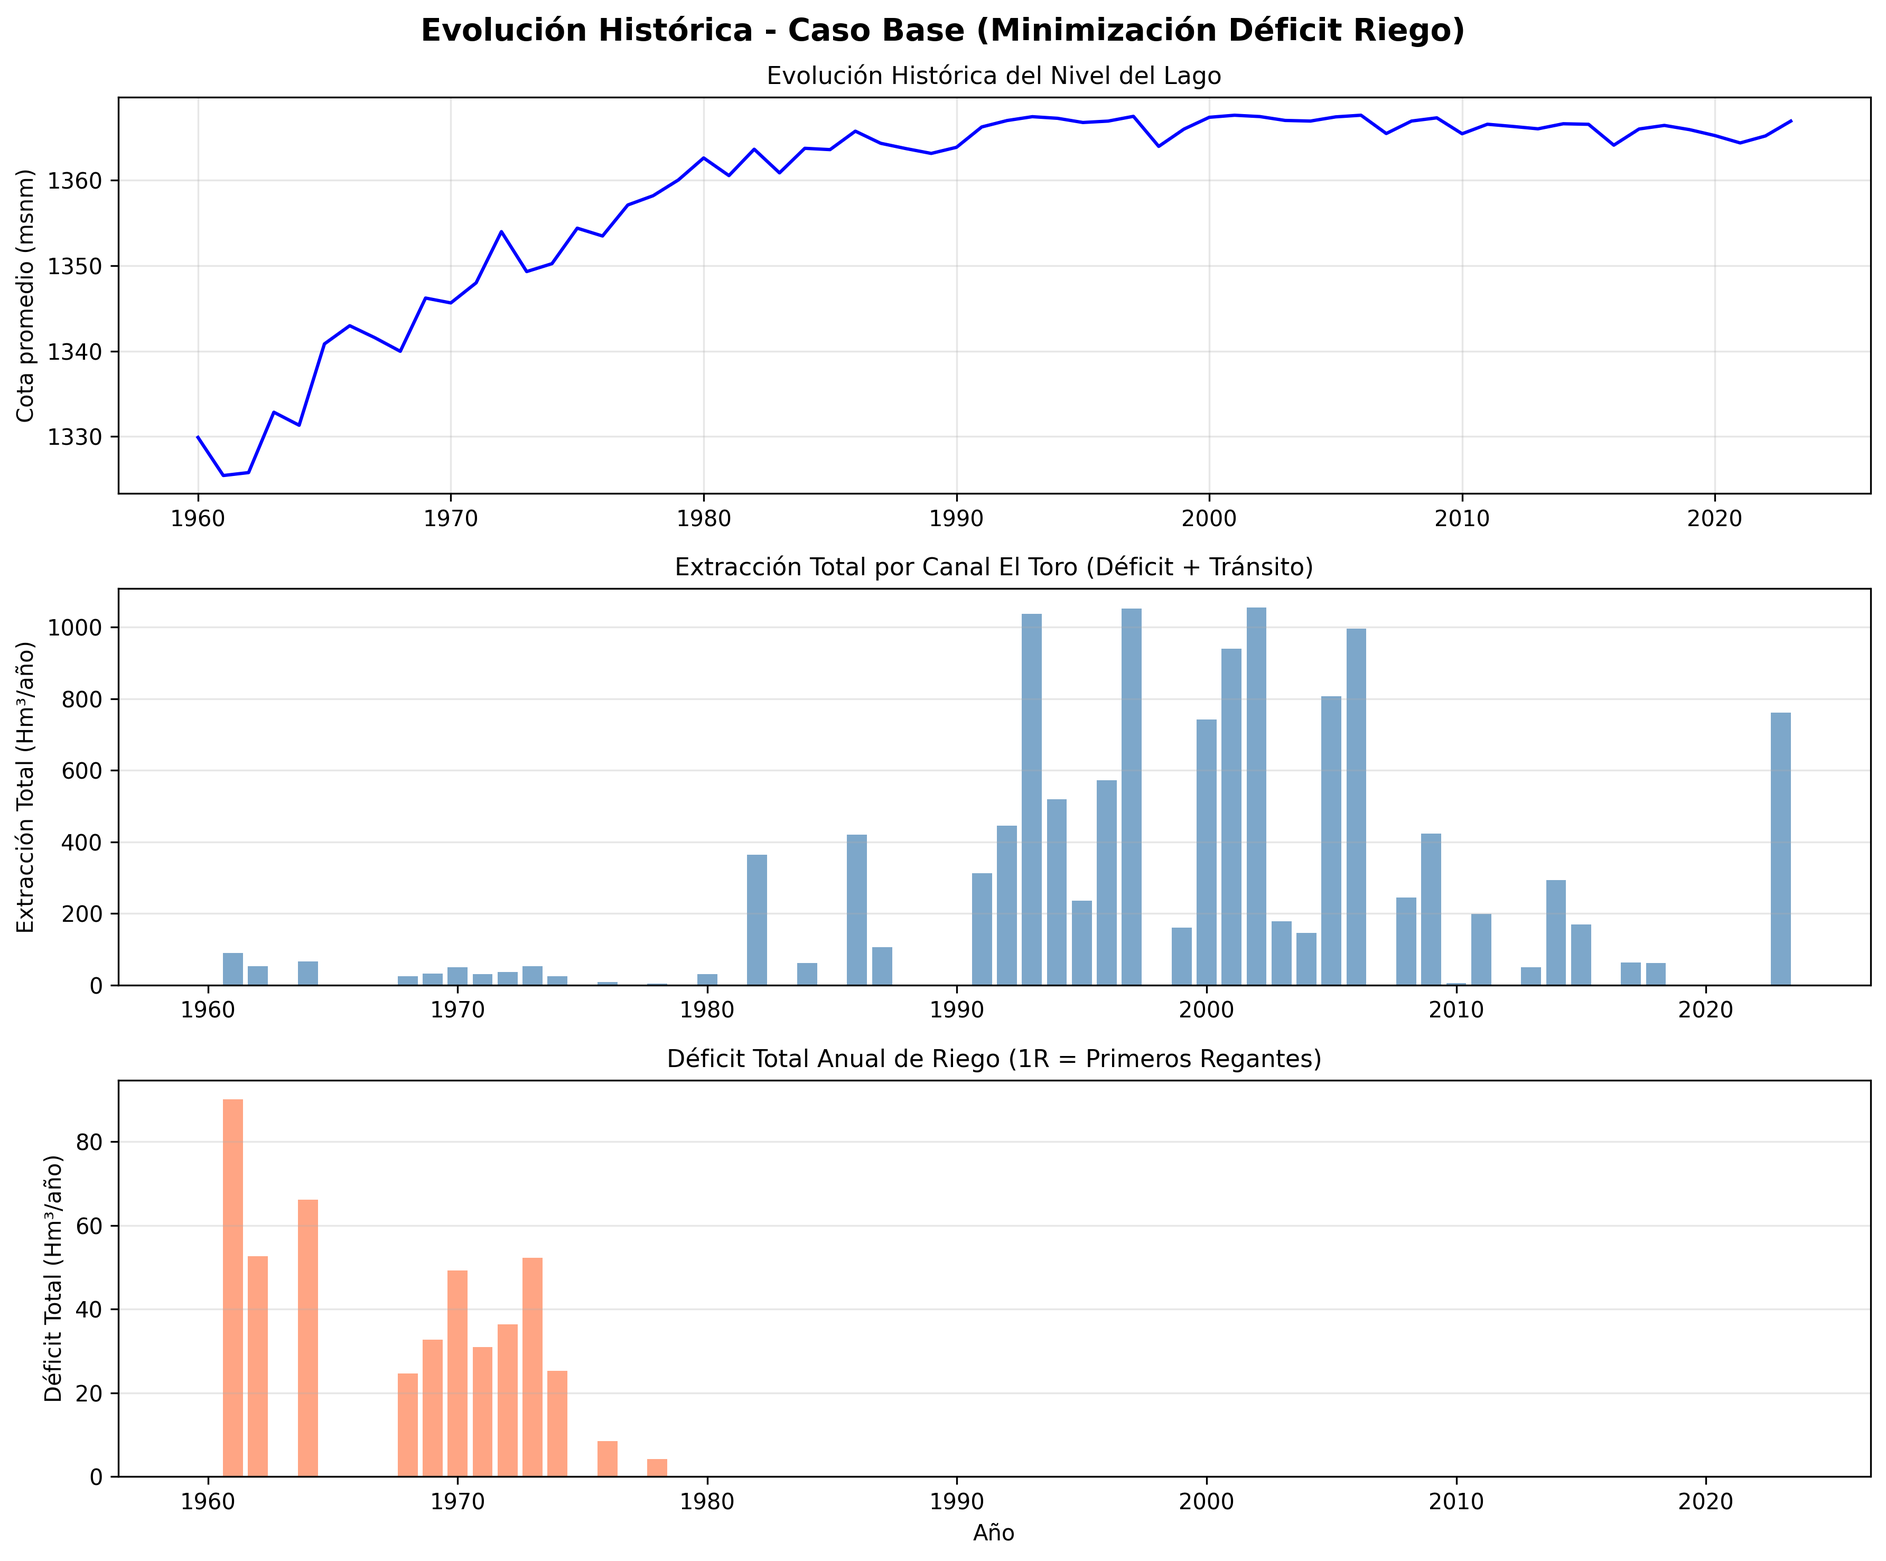
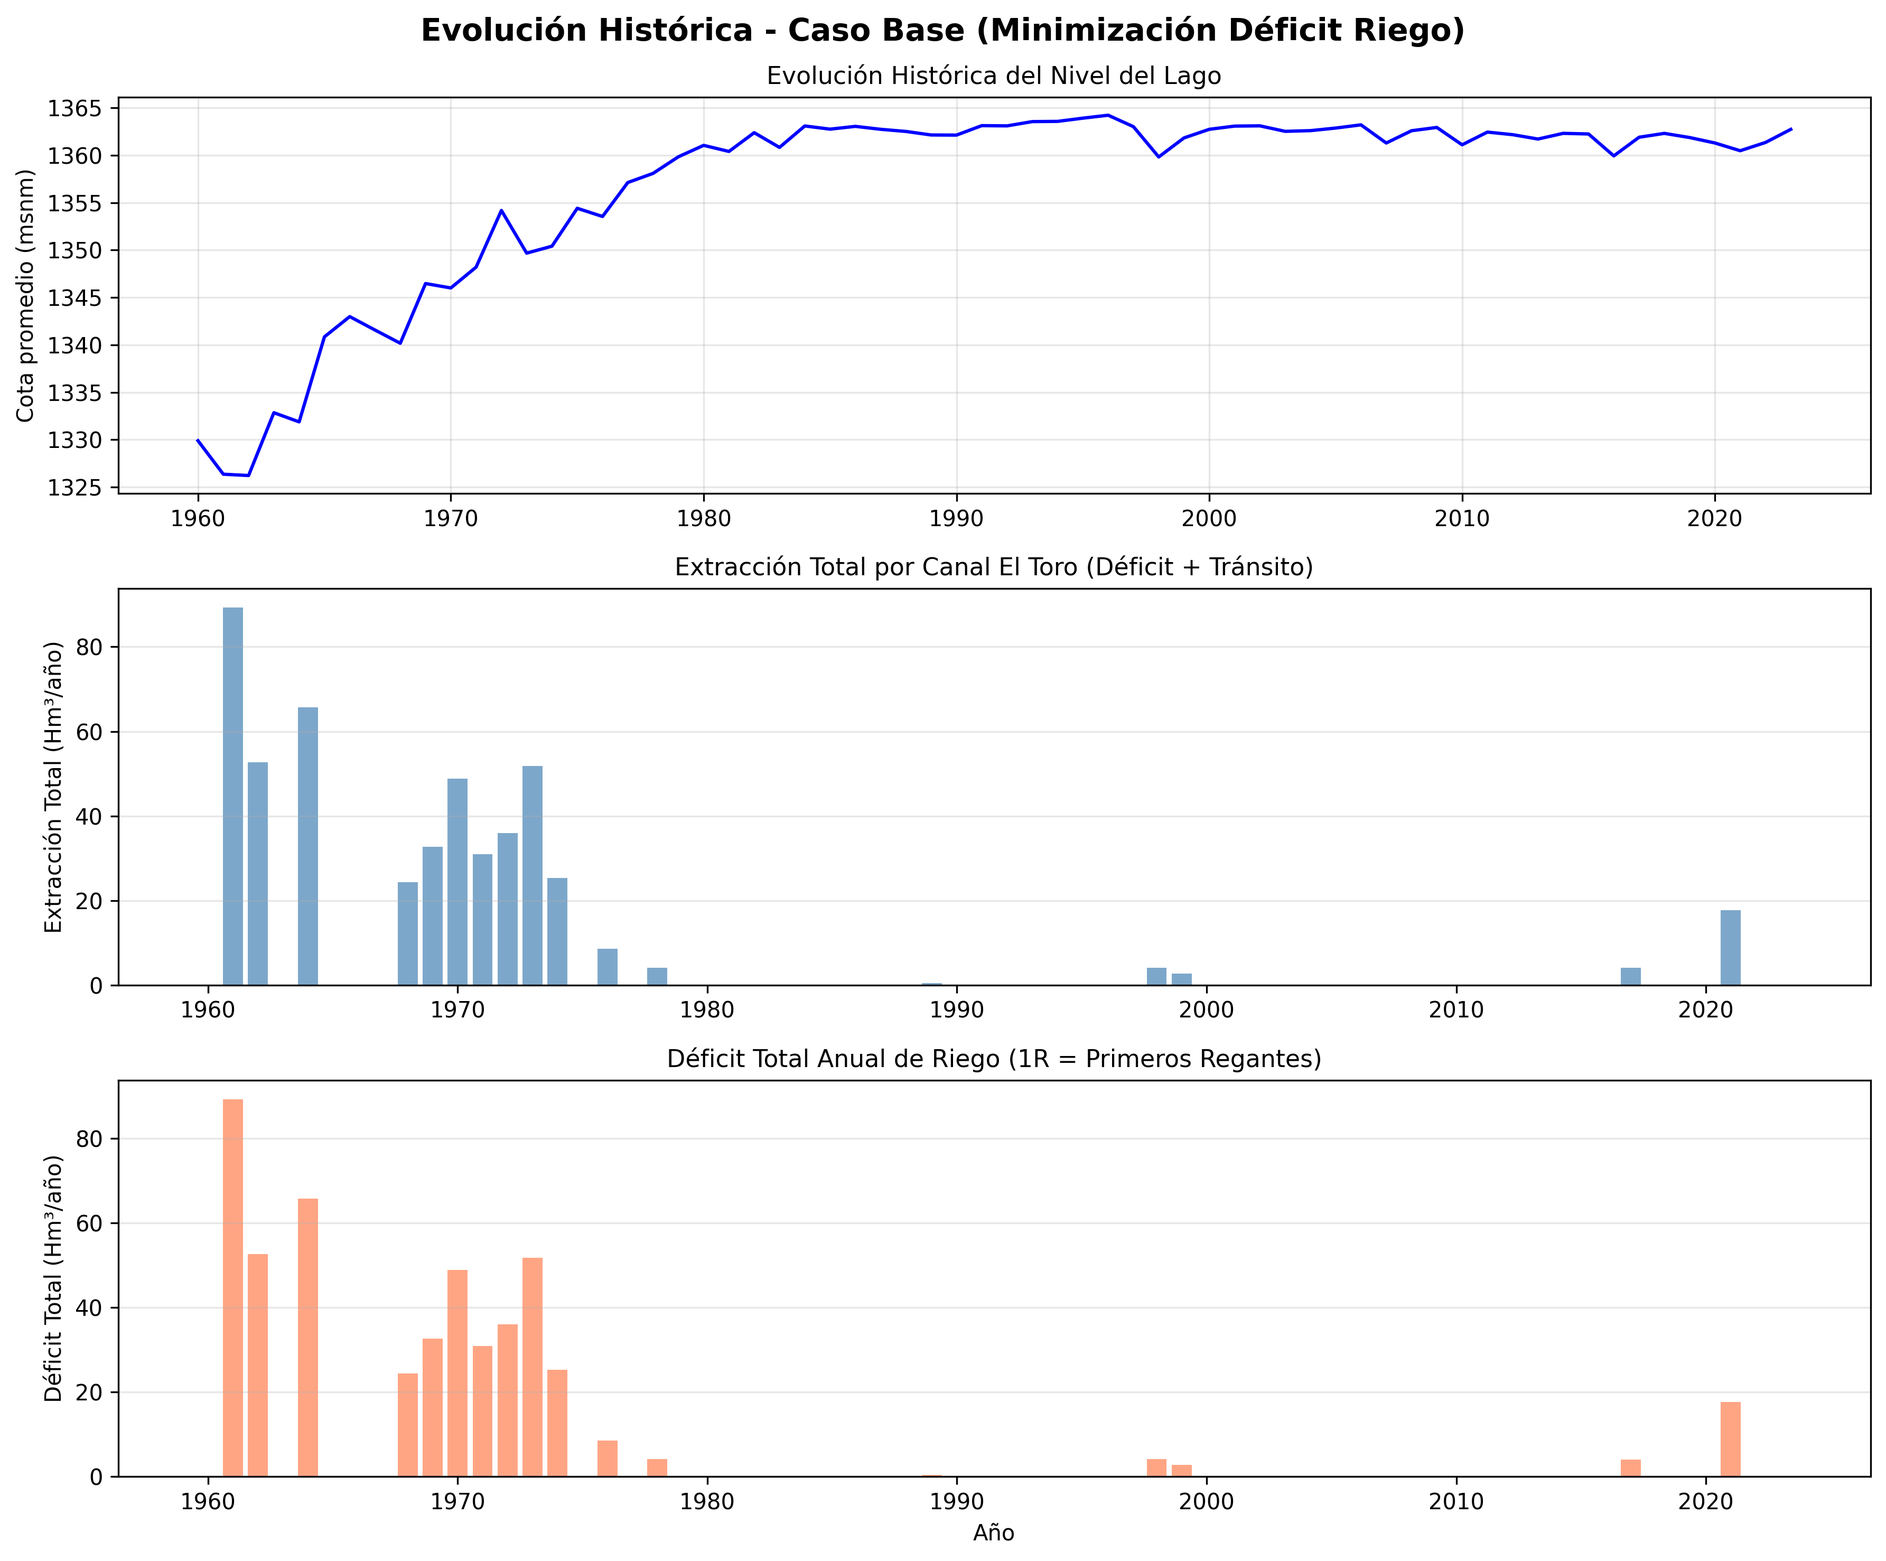
actualizando modelo final

diff --git a/src/ui_caso_base.py b/src/ui_caso_base.py
@@ -90,7 +90,9 @@ def print_kpis_caso_base(
     if not kpis or kpis.get('status', -1) != 2:
         print("⚠ No hay KPIs disponibles para mostrar")
         return
-    print_kpis(kpis, context, is_caso_base=True, years=years)
+    # print_kpis signature in kpi.py is (kpis, context='', years=None)
+    # do not pass unsupported keyword 'is_caso_base'
+    print_kpis(kpis, context, years=years)
 
 
 def generate_caso_base_plots(
@@ -700,6 +702,146 @@ def run_all_years(
         kpis_agregados = aggregate_kpis(
             kpis_historicos, years=years_exitosos, v0_values=v0_list
         )
+        # -- FALLBACK: si el modelo 'caso base' no contiene variables de
+        # presupuesto (z[*]) la función en kpi.py devuelve 'N/A' para uso
+        # de presupuestos. Aquí generamos una estimación razonable usando
+        # los colchones definidos en `model.py` y los déficits calculados
+        # para mostrar porcentajes informativos en la UI (riego != N/A).
+        try:
+            from model import COLCHONES
+
+            uso_pres = kpis_agregados.get('uso_presupuestos_%', {})
+            need_fix = (
+                (isinstance(uso_pres.get('riego'), str) and 'N/A' in uso_pres.get('riego'))
+                or (isinstance(uso_pres.get('generacion'), str) and 'N/A' in uso_pres.get('generacion'))
+            )
+
+            if need_fix:
+                # Elegir colchón activo por mayor tiempo en colchones
+                tiempo = kpis_agregados.get('tiempo_colchones_%', {})
+                if tiempo:
+                    colchon_activo = max(tiempo.items(), key=lambda x: x[1])[0]
+                else:
+                    colchon_activo = list(COLCHONES.keys())[0]
+
+                shares = COLCHONES.get(colchon_activo, {}).get('shares', (0.0, 0.0, 0.0))
+                r_share, g_share = shares[0], shares[1]
+
+                # Presupuesto riego total para el horizonte (Hm3).
+                # Debemos sumar el presupuesto por año, ya que estamos en modo
+                # multi-año. Para cada año usamos el V0 correspondiente en
+                # `v0_list` (si share>1 se interpreta como Hm3 fijo).
+                presupuesto_riego_total = 0.0
+                presupuesto_gen_total = 0.0
+                for idx in range(len(v0_list)):
+                    v0_y = v0_list[idx] if idx < len(v0_list) else default_v0
+                    if r_share > 1.0:
+                        presupuesto_riego_total += r_share
+                    else:
+                        presupuesto_riego_total += r_share * v0_y
+
+                    if g_share > 1.0:
+                        presupuesto_gen_total += g_share
+                    else:
+                        presupuesto_gen_total += g_share * v0_y
+
+                # Aplicar tope anual de 1200 Hm3 sólo cuando corresponda
+                if colchon_activo == 'Superior':
+                    # tope anual -> multiplicar por número de años
+                    presupuesto_gen_total = min(presupuesto_gen_total, 1200.0 * len(v0_list))
+
+                # Calculamos el porcentaje por AÑO y luego promediamos
+                # Esto refleja mejor "agua que suelta sea un % del presupuesto
+                # establecido antes" (presupuesto fijado cada año según V0).
+                pct_years = []
+                presupuestos_per_year = []
+                deficits_per_year = []
+                extraccion_eltoro_per_year = []
+
+                n_periods = min(len(kpis_historicos), len(v0_list)) if kpis_historicos and v0_list else 0
+                if n_periods == 0:
+                    # Fallback: usar agregados si no hay detalle por año
+                    def_acum_1r = kpis_agregados.get('deficit_acumulado_hm3', {}).get('1R', 0.0)
+                    avg_presupuesto_riego = presupuesto_riego_total / (len(v0_list) or 1)
+                    pct_riego = (def_acum_1r / (presupuesto_riego_total or 1.0)) * 100.0 if presupuesto_riego_total > 0 else 0.0
+                    pct_gen = 0.0
+                    uso_pres_calc = {
+                        'riego': f"{pct_riego:.1f}%",
+                        'generacion': f"{pct_gen:.1f}%",
+                        'presupuesto_riego_hm3': avg_presupuesto_riego,
+                        'presupuesto_gen_hm3': presupuesto_gen_total / (len(v0_list) or 1),
+                        'colchon_activo': colchon_activo,
+                        'v0_real_hm3': sum(v0_list) / (len(v0_list) or 1),
+                        'riego_usado_hm3': def_acum_1r / (len(v0_list) or 1),
+                        'gen_usada_hm3': 0.0,
+                        'extraccion_total_hm3': kpis_agregados.get('agua_eltoro_deficit_1r', 0.0) or def_acum_1r,
+                        'uso_riego_pct': pct_riego,
+                        'uso_gen_pct': pct_gen,
+                        'diferencia_riego_hm3': (def_acum_1r / (len(v0_list) or 1)) - avg_presupuesto_riego,
+                        'diferencia_gen_hm3': - (presupuesto_gen_total / (len(v0_list) or 1)),
+                        'cumple_riego': (def_acum_1r / (len(v0_list) or 1)) <= avg_presupuesto_riego,
+                        'cumple_gen': True,
+                    }
+                else:
+                    for idx in range(n_periods):
+                        kpi_year = kpis_historicos[idx]
+                        v0_y = v0_list[idx] if idx < len(v0_list) else default_v0
+
+                        def1_y = kpi_year.get('deficit_sum_hm3', {}).get('1R', 0.0)
+                        deficits_per_year.append(def1_y)
+
+                        # presupuesto por año según share
+                        if r_share > 1.0:
+                            pres_r_y = r_share
+                        else:
+                            pres_r_y = r_share * v0_y
+                        presupuestos_per_year.append(pres_r_y)
+
+                        # extraccion El Toro para riego (si se guarda en kpi por año)
+                        agua_eltoro_y = kpi_year.get('agua_eltoro_total', None)
+                        if agua_eltoro_y is None:
+                            agua_eltoro_y = def1_y
+                        extraccion_eltoro_per_year.append(agua_eltoro_y)
+
+                        pct_i = (def1_y / pres_r_y * 100.0) if pres_r_y > 0 else 0.0
+                        pct_years.append(pct_i)
+
+                    # Estadísticas anuales
+                    import numpy as _np
+                    mean_pct = float(_np.mean(pct_years)) if pct_years else 0.0
+                    avg_presupuesto_riego = float(_np.mean(presupuestos_per_year))
+                    avg_presupuesto_gen = float(_np.mean([ (g_share if g_share>1.0 else g_share * (v0_list[i] if i<len(v0_list) else default_v0)) for i in range(n_periods) ]))
+                    avg_deficit_annual = float(_np.mean(deficits_per_year))
+                    avg_agua_eltoro_annual = float(_np.mean(extraccion_eltoro_per_year))
+
+                    pct_riego = mean_pct
+                    pct_gen = 0.0
+
+                    uso_pres_calc = {
+                        'riego': f"{pct_riego:.1f}%",
+                        'generacion': f"{pct_gen:.1f}%",
+                        'presupuesto_riego_hm3': avg_presupuesto_riego,
+                        'presupuesto_gen_hm3': avg_presupuesto_gen,
+                        'colchon_activo': colchon_activo,
+                        'v0_real_hm3': sum(v0_list) / n_periods,
+                        'riego_usado_hm3': avg_deficit_annual,
+                        'gen_usada_hm3': 0.0,
+                        'extraccion_total_hm3': avg_agua_eltoro_annual,
+                        'uso_riego_pct': pct_years,
+                        'uso_gen_pct': pct_gen,
+                        'diferencia_riego_hm3': avg_deficit_annual - avg_presupuesto_riego,
+                        'diferencia_gen_hm3': 0.0 - avg_presupuesto_gen,
+                        'cumple_riego': avg_deficit_annual <= avg_presupuesto_riego,
+                        'cumple_gen': True,
+                        'uso_riego_pct_mean': pct_riego,
+                        'uso_riego_pct_years': pct_years,
+                    }
+
+                # Sobrescribir sólo si era N/A
+                kpis_agregados['uso_presupuestos_%'] = uso_pres_calc
+        except Exception:
+            # No bloquear si algo falla: dejamos los valores como están
+            pass
         context = f"Histórico ({len(kpis_historicos)} casos)"
         years_list = all_years[:len(kpis_historicos)]
         print_kpis_caso_base(kpis_agregados, context, years=years_list)

diff --git a/src/kpi.py b/src/kpi.py
@@ -684,44 +684,44 @@ def print_kpis(
     generacion_str = presup.get('generacion', 'N/A')
     print(f"   ⚡ Generación (excedente):    {generacion_str:>8}")
 
-    # Mostrar presupuestos disponibles y diferencias
-    presup_riego_abs = presup.get('presupuesto_riego_hm3', 0.0)
-    presup_gen_abs = presup.get('presupuesto_gen_hm3', 0.0)
-    diff_riego = presup.get('diferencia_riego_hm3', 0.0)
-    diff_gen = presup.get('diferencia_gen_hm3', 0.0)
-    cumple_riego = presup.get('cumple_riego', True)
-    cumple_gen = presup.get('cumple_gen', True)
-    colchon_activo = presup.get('colchon_activo', 'N/A')
+    # # Mostrar presupuestos disponibles y diferencias
+    # presup_riego_abs = presup.get('presupuesto_riego_hm3', 0.0)
+    # presup_gen_abs = presup.get('presupuesto_gen_hm3', 0.0)
+    # diff_riego = presup.get('diferencia_riego_hm3', 0.0)
+    # diff_gen = presup.get('diferencia_gen_hm3', 0.0)
+    # cumple_riego = presup.get('cumple_riego', True)
+    # cumple_gen = presup.get('cumple_gen', True)
+    # colchon_activo = presup.get('colchon_activo', 'N/A')
 
-    if presup_riego_abs > 0 or presup_gen_abs > 0:
-        print(f"\n   📋 Colchón Activo: {colchon_activo}")
-        print("   💧 Presupuestos vs Uso:")
+    # if presup_riego_abs > 0 or presup_gen_abs > 0:
+    #     print(f"\n   📋 Colchón Activo: {colchon_activo}")
+    #     print("   💧 Presupuestos vs Uso:")
 
-        if presup_riego_abs > 0:
-            estado_riego = "✅" if cumple_riego else "❌"
-            signo_riego = "+" if diff_riego > 0 else ""
-            print(f"      • Riego:      {presup_riego_abs:>7.1f} Hm³/año "
-                  f"({signo_riego}{diff_riego:>+6.1f}) {estado_riego}")
+    #     if presup_riego_abs > 0:
+    #         estado_riego = "✅" if cumple_riego else "❌"
+    #         signo_riego = "+" if diff_riego > 0 else ""
+    #         print(f"      • Riego:      {presup_riego_abs:>7.1f} Hm³/año "
+    #               f"({signo_riego}{diff_riego:>+6.1f}) {estado_riego}")
 
-        if presup_gen_abs > 0:
-            estado_gen = "✅" if cumple_gen else "❌"
-            signo_gen = "+" if diff_gen > 0 else ""
-            print(f"      • Generación: {presup_gen_abs:>7.1f} Hm³/año "
-                  f"({signo_gen}{diff_gen:>+6.1f}) {estado_gen}")
+    #     if presup_gen_abs > 0:
+    #         estado_gen = "✅" if cumple_gen else "❌"
+    #         signo_gen = "+" if diff_gen > 0 else ""
+    #         print(f"      • Generación: {presup_gen_abs:>7.1f} Hm³/año "
+    #               f"({signo_gen}{diff_gen:>+6.1f}) {estado_gen}")
 
-    # Mostrar descomposición del flujo El Toro si está disponible
-    agua_total = kpis.get('agua_eltoro_total', 0.0)
-    agua_riego = kpis.get('agua_riego_hm3', 0.0)
-    agua_gen = kpis.get('agua_generacion_hm3', 0.0)
-    if agua_total > 0:
-        print("\n   📊 Descomposición Flujo El Toro:")
-        print(f"      • Total:      {agua_total:>8.2f} Hm³/año")
-        pct_riego = agua_riego / agua_total * 100
-        pct_gen = agua_gen / agua_total * 100
-        print(f"      • Riego:      {agua_riego:>8.2f} Hm³ "
-              f"({pct_riego:>5.1f}%)")
-        print(f"      • Generación: {agua_gen:>8.2f} Hm³ "
-              f"({pct_gen:>5.1f}%)")
+    # # Mostrar descomposición del flujo El Toro si está disponible
+    # agua_total = kpis.get('agua_eltoro_total', 0.0)
+    # agua_riego = kpis.get('agua_riego_hm3', 0.0)
+    # agua_gen = kpis.get('agua_generacion_hm3', 0.0)
+    # if agua_total > 0:
+    #     print("\n   📊 Descomposición Flujo El Toro:")
+    #     print(f"      • Total:      {agua_total:>8.2f} Hm³/año")
+    #     pct_riego = agua_riego / agua_total * 100
+    #     pct_gen = agua_gen / agua_total * 100
+    #     print(f"      • Riego:      {agua_riego:>8.2f} Hm³ "
+    #           f"({pct_riego:>5.1f}%)")
+    #     print(f"      • Generación: {agua_gen:>8.2f} Hm³ "
+    #           f"({pct_gen:>5.1f}%)")
 
     # KPI 3: Déficits
     print("\n📉 KPI 3 - DÉFICITS DE RIEGO:")

diff --git a/src/ui_model.py b/src/ui_model.py
@@ -632,23 +632,20 @@ def run_all_years(
 
     if is_energy_model:
         print("\n⚡ GENERACIÓN ENERGÉTICA:")
-        print(f"   • Total: {total_energy:,.1f} MWh")
+        avg_value = total_energy / len(successful) if len(successful) > 0 else 0
+        print(f"   • Total promedio: {total_energy:,.1f} MWh")
+        print(f"   • Promedio anual: {avg_value:,.1f} MWh/año")
     else:
         print("\n🛑 DÉFICIT ACUMULADO:")
+        avg_value = total_energy / len(successful) if len(successful) > 0 else 0
         print(f"   • Total: {total_energy:,.2f} Hm³")
+        print(f"   • Promedio anual: {avg_value:,.2f} Hm³/año")
 
     print("\n🌊 EXTRACCIÓN DEL EMBALSE:")
     print(f"   • Total: {total_extraccion_embalse:,.1f} Hm³")
 
     if successful:
-        avg_value = total_energy / len(successful)
         avg_extraccion = total_extraccion_embalse / len(successful)
-
-        if is_energy_model:
-            print(f"   • Promedio anual: {avg_value:,.0f} MWh/año")
-        else:
-            print(f"   • Promedio anual: {avg_value:,.2f} Hm³/año")
-
         print(f"   • Promedio anual: {avg_extraccion:,.1f} Hm³/año")
 
         # Balance volumétrico histórico
@@ -656,11 +653,16 @@ def run_all_years(
         v_final_last = successful[-1]['v_final'] if successful else V0
         volume_change = v_final_last - v_initial
         change_sign = "📈" if volume_change >= 0 else "📉"
+        # Calcular tasa de cambio anual
+        tasa_cambio = 0.0
+        if len(successful) > 0:
+            tasa_cambio = volume_change / len(successful)
 
         print("\n💧 BALANCE VOLUMÉTRICO HISTÓRICO:")
-        print(f"   Inicial (Dic'59): {v_initial:,.1f} Hm³")
-        print(f"   Final (Nov'23): {v_final_last:,.1f} Hm³")
-        print(f"   {change_sign} Cambio neto: {volume_change:+,.1f} Hm³")
+        print(f"   • Inicial (Dic'59): {v_initial:,.1f} Hm³")
+        print(f"   • Final (Nov'23): {v_final_last:,.1f} Hm³")
+        print(f"   • {change_sign} Cambio neto: {volume_change:+,.1f} Hm³")
+        print(f"   • Tasa de cambio: {tasa_cambio:+.1f} Hm³/año")
 
         # Mostrar años fallidos si existen
         if failed_years:

diff --git a/src/caso_base.py b/src/caso_base.py
@@ -165,7 +165,12 @@ def build_casobase_model_for_one_year(
     # ========================================================================
     # Flujos hídricos básicos
     y = m.addVars(ARCS, T, lb=0.0, name="y")  # Conectividad/inyección
-    x = m.addVars([("Embalse", "ElToro")], T, lb=0.0, name="x")  # El Toro
+    # Flujos a través de arcos generadores (incluye El Toro y otros
+    # arcos de "generación" aunque en este caso no se modela la
+    # generación energética). Necesitamos crear `x` para TODOS los
+    # arcos en A_generacion para poder referenciarlos en restricciones
+    # (p. ej. activación `beta` y límites de capacidad).
+    x = m.addVars(A_generacion, T, lb=0.0, name="x")  # Flujos en arcos generacion
     V = m.addVars(T, lb=V_min, ub=V_max, name="V")  # Volumen embalse
     Filtr = m.addVars(T, lb=0.0, name="Filtr")  # Filtraciones
 

diff --git a/src/ui_helpers.py b/src/ui_helpers.py
@@ -129,6 +129,27 @@ def get_performance_stats(
     }
 
 
+def format_time(seconds: float) -> str:
+    """
+    Formatea segundos a una cadena legible compacta.
+
+    Args:
+        seconds: número de segundos
+
+    Returns:
+        Cadena como '1m 23.5s' o '12.3s' o '1h 2m'
+    """
+    if seconds < 60:
+        return f"{seconds:.1f}s"
+    if seconds < 3600:
+        minutes = int(seconds // 60)
+        secs = seconds % 60
+        return f"{minutes}m {secs:.1f}s"
+    hours = int(seconds // 3600)
+    minutes = int((seconds % 3600) // 60)
+    return f"{hours}h {minutes}m"
+
+
 def print_performance_stats(
     stats: Dict[str, Union[float, str]],
     context: str = ""
